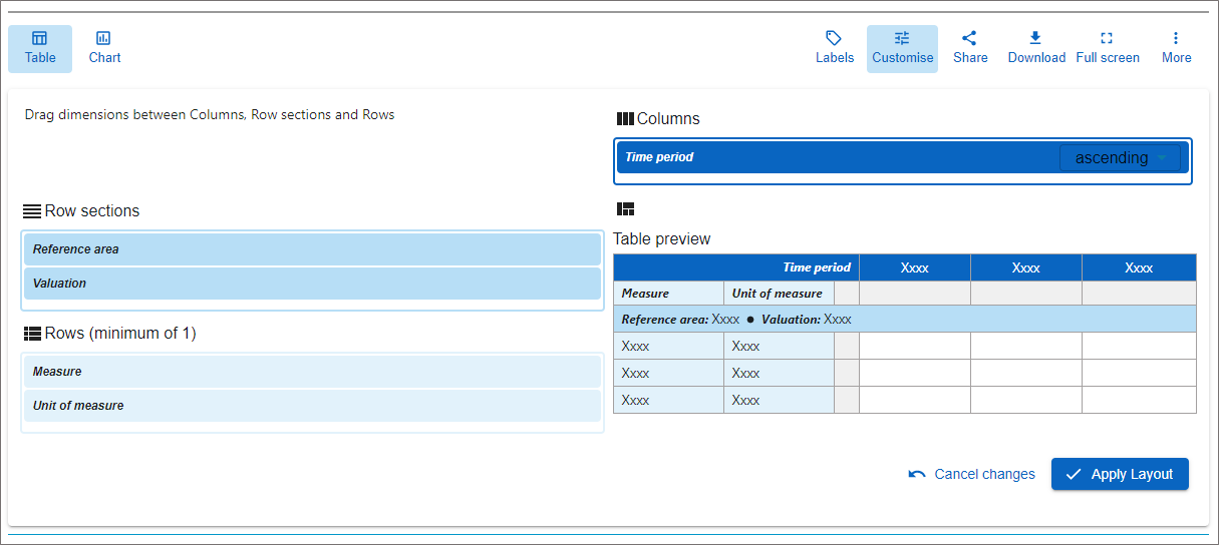
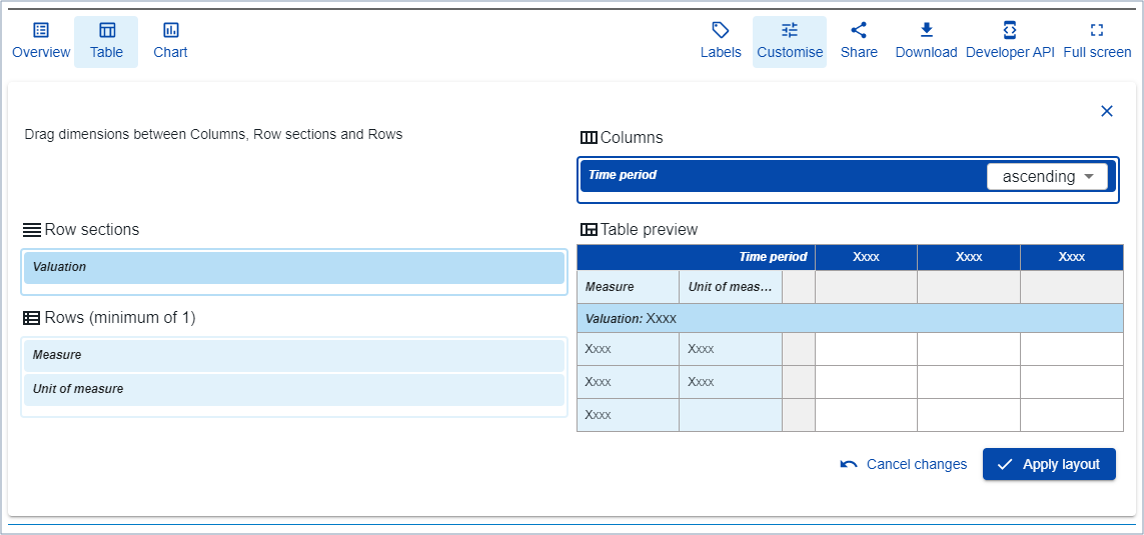
DE cross feature for panel menu

diff --git a/content/using-de/viewing-data/preview-table/customise-feature.md b/content/using-de/viewing-data/preview-table/customise-feature.md
@@ -17,6 +17,9 @@ keywords: [
 
 > This section describes how to customise the **table preview layout**. For the customisation of the chart views, please see [this section](https://sis-cc.gitlab.io/dotstatsuite-documentation/using-de/viewing-data/charts/customise-feature/) of the documentation.
 
+> *Version history:*  
+> Added a cross icon to close the panel with [December 5, 2022 Release .Stat Suite JS spin](https://sis-cc.gitlab.io/dotstatsuite-documentation/changelog/#december-5-2022)  
+
 ---
 
 ### General behavior
@@ -38,7 +41,8 @@ The **Table preview** area automatically shows what the user modifies, allowing 
 
 **Cancel/Apply**  
 The modifications made in the "Customise" option are applied only when the user clicks on **Apply Layout**. When doing so, the "Customise" toolbar option is collapsed and the table preview layout is updated with the new modifications.  
-Clicking on **Cancel changes** will set all dimensions back to the previous state, meaning as it was set when the user originally clicked on "Customise".
+Clicking on **Cancel changes** will set all dimensions back to the previous state, meaning as it was set when the user originally clicked on "Customise".  
+Also, clicking on the top-right cross icon will close the the panel without applying any change.
 
 ---
 

diff --git a/content/using-de/viewing-data/share/_index.md b/content/using-de/viewing-data/share/_index.md
@@ -55,6 +55,8 @@ Once clicked on "Request URL and embed code", the user gets the following messag
 **Note** that, since [January 13, 2022 Release .Stat Suite JS 12.0.0](https://sis-cc.gitlab.io/dotstatsuite-documentation/changelog/#january-13-2022), when the user is authenticated and requests to share a snapshot of data that are not publicly available (e.g. a private dataflow triggered from the DLM preview), then a localised warning message indicates that those data will be publicly accessible even though potentially not yet officially and publicly released.
 
 ![DE Share warning snapshot](/dotstatsuite-documentation/images/de-share-snapshot-warning.png)
+ 
+Clicking on the top-right cross icon will close the panel without any action.
 
 #### Email confirmation
 Once the request of share object was accepted by the data explorer, the following email request is sent in order to confirm the email address:

diff --git a/content/using-de/viewing-data/toolbar/_index.md b/content/using-de/viewing-data/toolbar/_index.md
@@ -196,3 +196,4 @@ There is an option to **copy** each query in the user's clipboard.
 
 ![Developer API](/dotstatsuite-documentation/images/de-api.png)
 
+ Clicking on the top-right cross icon will close the panel without any action.
